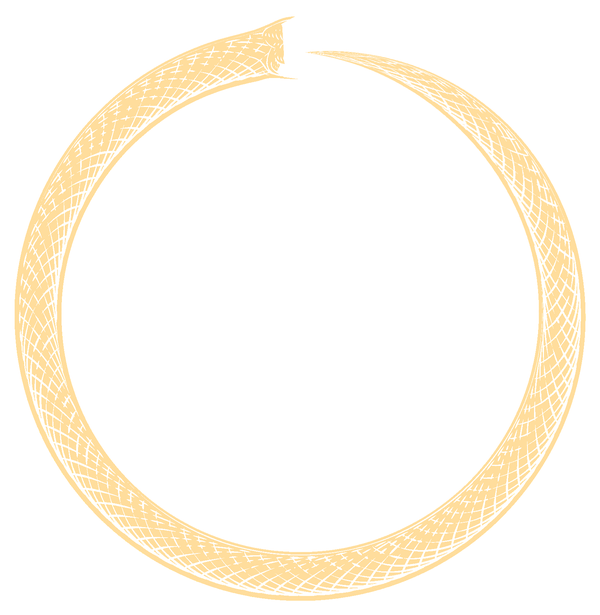
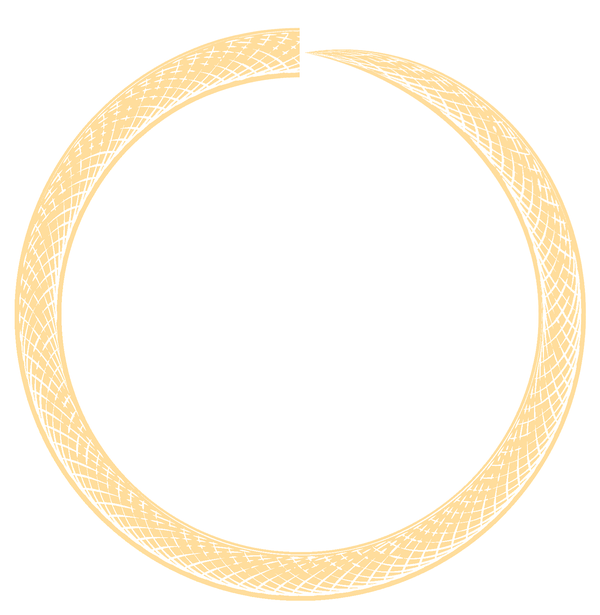
Ouroboros lap 2: ring stays still, head eats its way round; even band, seamless per-pixel layer split; ends exactly on the original seal
Claude-Session: https://claude.ai/code/session_01U3qNVJzYKNiHQsjiGxyF3P

Changed region(s): [[0.39, 0.0309, 0.99, 0.5252]]

diff --git a/index.html b/index.html
@@ -60,37 +60,44 @@ nav{display:flex;flex-wrap:wrap;gap:6px 22px}
 nav a{font-family:var(--display);font-size:12px;letter-spacing:.26em;text-transform:uppercase;text-decoration:none;opacity:.8;font-weight:500}
 nav a:hover{opacity:1;text-decoration:underline;text-underline-offset:5px}
 .seal{display:grid;justify-items:start;gap:28px}
-.seal-anim{position:relative;width:min(300px,62vw);aspect-ratio:878/900}
+.seal-anim{position:relative;width:min(300px,62vw);aspect-ratio:600/615}
 .seal-anim img{position:absolute;inset:0;width:100%;height:100%}
-/* Ouroboros, two laps. --p runs 0 -> 2 (one unit per lap); the head turns 360deg per lap.
-   Lap 1: the first frame is the head alone at the top. As it travels, the snake appears behind it on a
-   stationary layer (snake-coil.png): the pointed tail first, where the head began, then the body.
-   At the top it bites the tail.
-   Lap 2: the whole snake slithers round as one piece (it rotates with the head, so the neck and the
-   narrowing near the mouth stay with the head and the ring keeps its width everywhere else), while
-   the tail in its mouth is swallowed: a sequence of tail shapes morphs from the pointed tail into
-   the original seal's tail (snake-tail.webp, 37 frames). It ends exactly on the original seal.
-   The two lap layers are identical where they hand over (p = 1), so the switch is invisible. */
+/* Ouroboros, two laps. The ring never moves; only the head travels (--p: 0 -> 2, 360deg per lap).
+   Lap 1: the first frame is the head alone at the top. As it travels, the snake appears behind it
+   (snake-coil.png): the pointed tail first, where the head began, then the body. It bites the tail.
+   Lap 2: it keeps eating its way round. Ahead of it, the rest of the pointed tail waits to be
+   swallowed; behind it, and everywhere else, the ring is an even band (snake-ring.png + region R).
+   Over the last stretch, region R (the neck and the body just ahead of the mouth) eases from the even
+   band into the original drawing in small steps (snake-ringR.webp, 25 frames), so it ends exactly on
+   the original seal. Every boundary between layers sits under the head. Angles clockwise from top:
+     A = 360(p-1) - 1 (behind the head in lap 2)   B = 360p - 1 (reveal edge in lap 1)   */
 @property --p{syntax:'<number>';inherits:false;initial-value:2}
 .seal-anim .snake{position:absolute;inset:0;animation:snake-in .5s ease .2s both}
-.seal-anim .snake img,.seal-anim .turn,.seal-anim .lap2{position:absolute;inset:0;width:100%;height:100%}
+.seal-anim .snake img,.seal-anim .turn,.seal-anim .ringB,.seal-anim .coil{position:absolute;inset:0;width:100%;height:100%}
+/* every ring layer is a full-size background, so they all land on exactly the same pixels */
+.seal-anim .coil{background:url(img/snake-coil.png) 0 0/100% 100% no-repeat}
+.seal-anim .ringB{background:url(img/snake-ringR.webp) 0% 0/2500% 100% no-repeat,url(img/snake-ring.png) 0 0/100% 100% no-repeat}
 .seal-anim .turn img{position:absolute;inset:0;width:100%;height:100%}
-.seal-anim .turn,.seal-anim .coil,.seal-anim .lap2{--p:2;animation:ouroboros 9s linear .5s both}
+.seal-anim .turn,.seal-anim .coil{--p:2;animation:ouroboros 9s linear .5s both}
+.seal-anim .ringB{--p:2;animation:ouroboros 9s linear .5s both,ringmorph 9s linear .5s both}
 .seal-anim .turn{transform-origin:49.94% 51.06%;transform:rotate(calc(var(--p) * 360deg));will-change:transform}
 .seal-anim .coil{
-  --e:min(360deg,max(0deg,calc(360deg * var(--p) - 1deg)),max(0deg,calc((1 - var(--p)) * 10000000deg)));
-  -webkit-mask-image:conic-gradient(from 0deg at 49.94% 51.06%,#000 var(--e),transparent var(--e));
-  mask-image:conic-gradient(from 0deg at 49.94% 51.06%,#000 var(--e),transparent var(--e))}
-.seal-anim .lap2{opacity:clamp(0,calc((var(--p) - 0.99999) * 10000000),1)}
-.seal-anim .tailseq{position:absolute;left:48.3333%;top:0;width:51.6667%;height:42.6016%;
-  background:url(img/snake-tail.webp) 100% 0/3700% 100% no-repeat;animation:tailmorph 9s linear .5s both}
+  --a:min(360deg,max(0deg,calc(360deg * (var(--p) - 1) - 1deg)));
+  --e:min(360deg,max(0deg,calc(360deg * var(--p) - 1deg)),calc(68deg + min(360deg,max(0deg,calc((1 - var(--p)) * 10000000deg)))));
+  -webkit-mask-image:conic-gradient(from 0deg at 49.94% 51.06%,transparent var(--a),#000 var(--a),#000 var(--e),transparent var(--e));
+  mask-image:conic-gradient(from 0deg at 49.94% 51.06%,transparent var(--a),#000 var(--a),#000 var(--e),transparent var(--e))}
+.seal-anim .ringB{
+  --a:min(360deg,max(0deg,calc(360deg * (var(--p) - 1) - 1deg)));
+  --g:min(400deg,calc(68deg + max(0deg,calc((1 - var(--p)) * 10000000deg))));
+  -webkit-mask-image:conic-gradient(from 0deg at 49.94% 51.06%,#000 var(--a),transparent var(--a),transparent var(--g),#000 var(--g));
+  mask-image:conic-gradient(from 0deg at 49.94% 51.06%,#000 var(--a),transparent var(--a),transparent var(--g),#000 var(--g))}
 /* jaw: -6deg closed on the thin tail, 0 = the original (closed on the body), positive = open */
 .seal-anim .jaw{transform-origin:46.7% 10.66%;animation:chomp 9s linear .5s both}
 @keyframes ouroboros{
   0%{--p:0;animation-timing-function:cubic-bezier(.45,.05,.6,.8)}
   50%{--p:1;animation-timing-function:cubic-bezier(.4,.2,.55,.95)}
   100%{--p:2}}
-@keyframes tailmorph{0%,50%{background-position:0% 0;animation-timing-function:steps(37,jump-none)}100%{background-position:100% 0}}
+@keyframes ringmorph{0%,72%{background-position:0% 0,0 0;animation-timing-function:steps(25,jump-none)}100%{background-position:100% 0,0 0}}
 @keyframes snake-in{from{opacity:0}to{opacity:1}}
 @keyframes chomp{
   0%{transform:rotate(-6deg);animation-timing-function:ease-in-out}
@@ -263,7 +270,7 @@ footer .roman{opacity:1}
   .venue{padding:24px}
   .count{gap:20px}
 }
-@media (prefers-reduced-motion:reduce){*{transition:none!important}.seal-anim .snake,.seal-anim .turn,.seal-anim .coil,.seal-anim .lap2,.seal-anim .tailseq,.seal-anim .jaw{animation:none}}
+@media (prefers-reduced-motion:reduce){*{transition:none!important}.seal-anim .snake,.seal-anim .turn,.seal-anim .coil,.seal-anim .ringB,.seal-anim .jaw{animation:none}}
 </style>
 </head>
 <body>
@@ -277,12 +284,9 @@ footer .roman{opacity:1}
     <div class="seal">
       <div class="seal-anim" role="img" aria-label="Our seal: an interlaced S and G inside a golden serpent ring, dated VI.XVIII.MMXXVII">
         <div class="snake">
-          <img class="coil" src="img/snake-coil.png" alt="" width="300" height="307">
+          <div class="ringB"></div>
+          <div class="coil"></div>
           <div class="turn">
-            <div class="lap2">
-              <img class="body2" src="img/snake-body.png" alt="" width="300" height="307">
-              <div class="tailseq"></div>
-            </div>
             <img class="jaw" src="img/snake-jaw.png" alt="" width="300" height="307">
             <img class="head" src="img/snake-head.png" alt="" width="300" height="307">
           </div>
